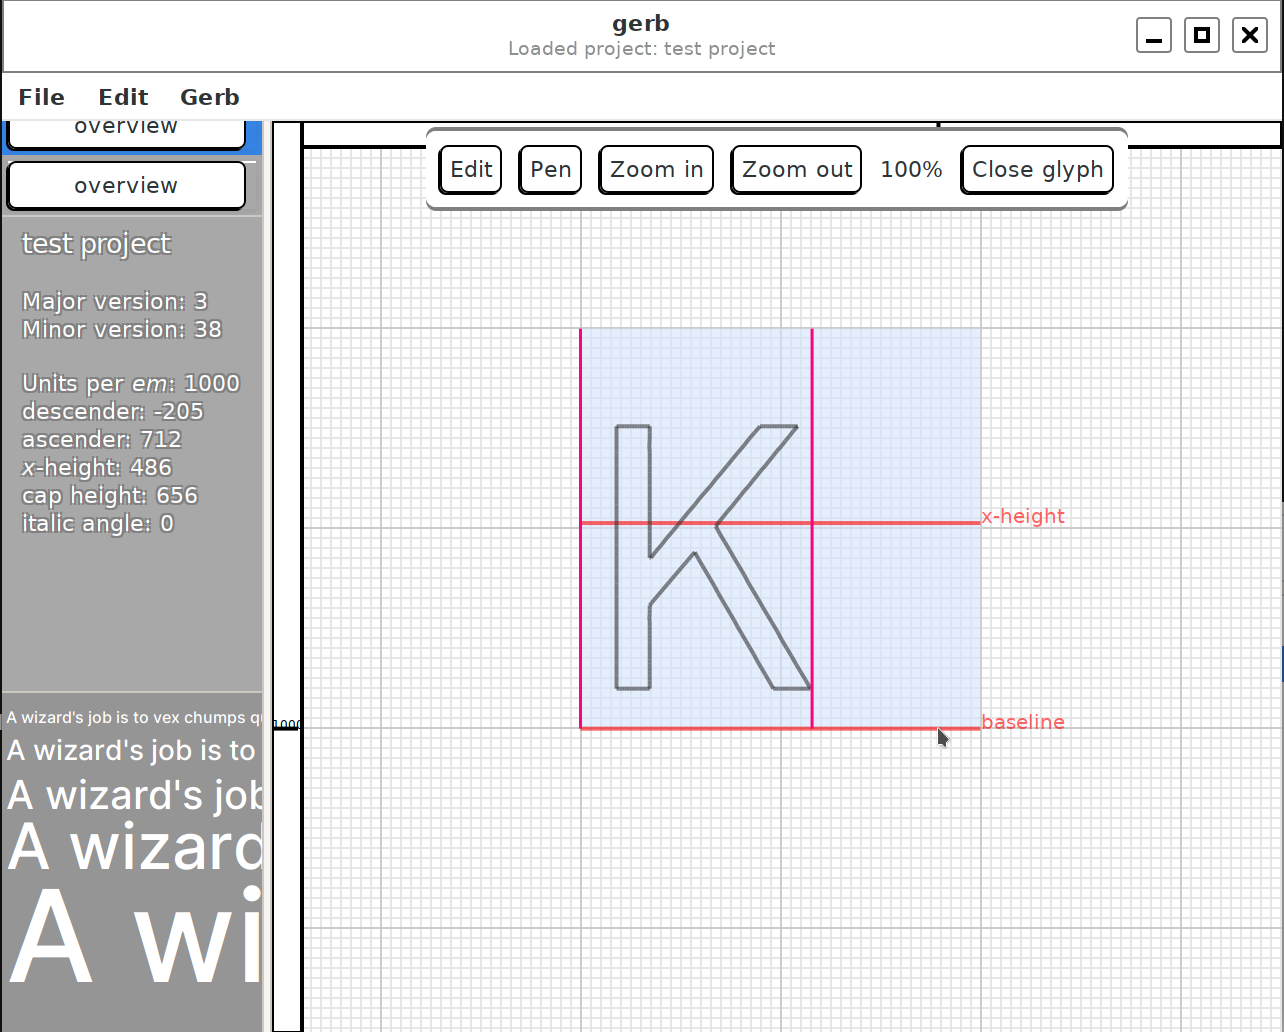
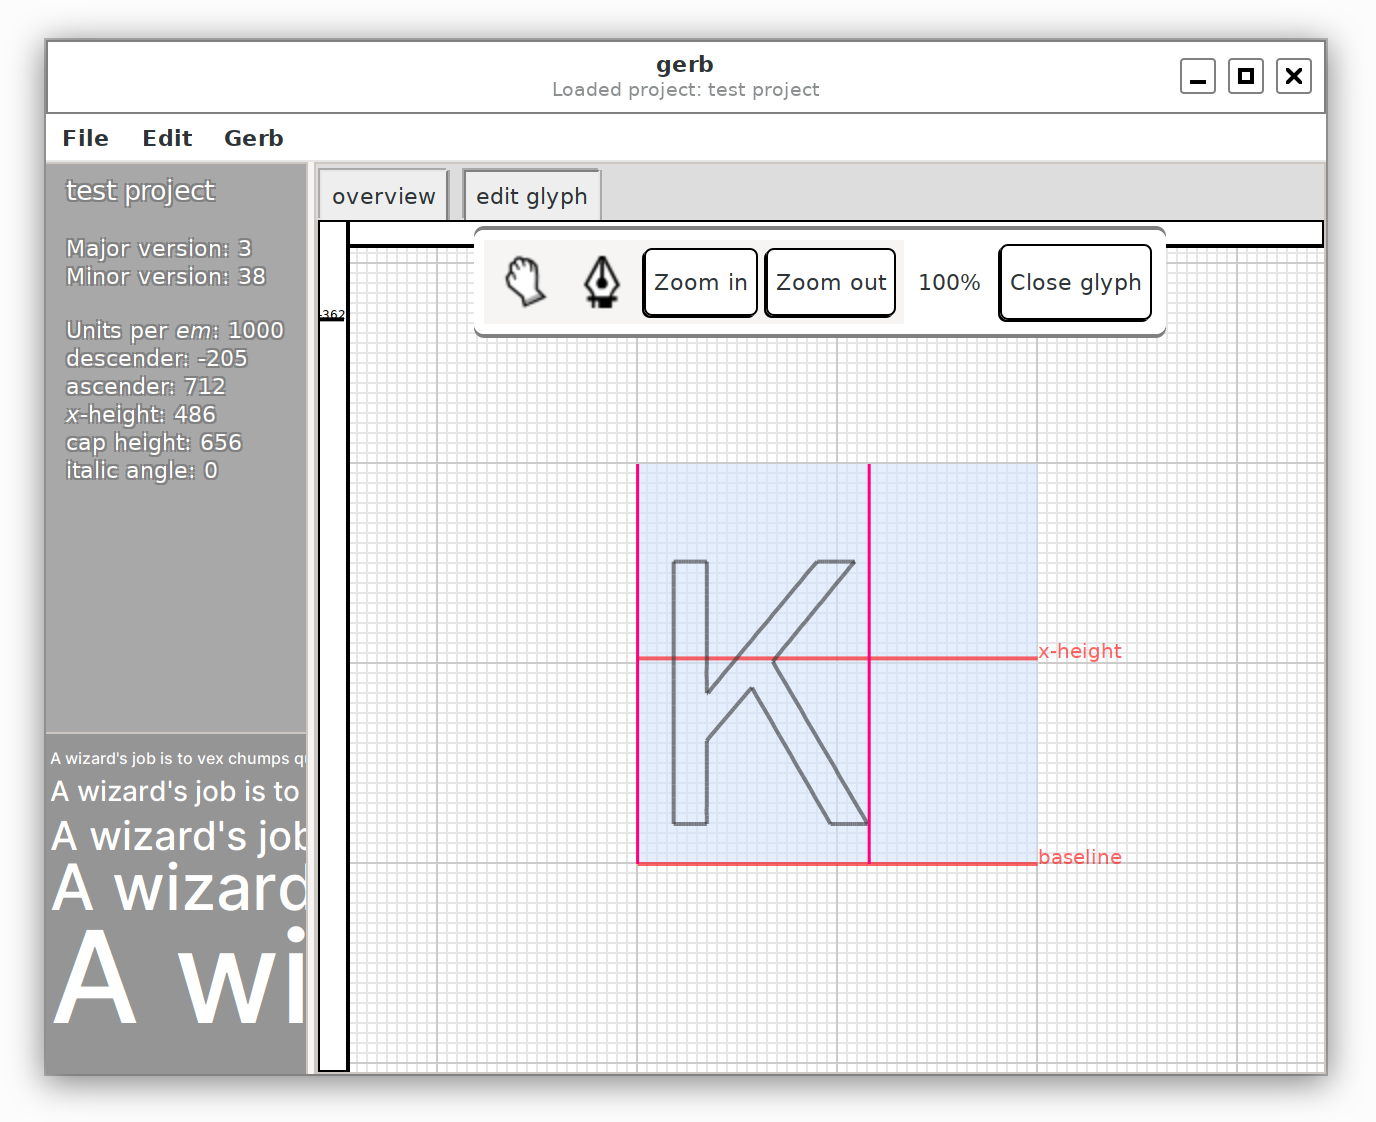
Use gtk::Notebook instead of gtk::Stack

diff --git a/src/custom.css b/src/custom.css
@@ -92,3 +92,24 @@ toolpalette  {
   background: #959595;
   color:black;
 }
+
+tab {
+  border: 1px outset gray;
+  border-bottom: 0px;
+  padding: 5px;
+  min-height: 0;
+  box-shadow: -1px -1px darkgray, 1px 0px darkgray;
+  background-color: #eee;
+}
+
+tab:checked {
+  border: 1px inset gray;
+  border-bottom: 0px;
+}
+
+tabs {
+  padding-left: 0;
+  padding-top: 3px;
+  margin-left: -4px;
+  background-color: #ddd;
+}

diff --git a/src/views/glyph_edit.rs b/src/views/glyph_edit.rs
@@ -69,14 +69,18 @@ impl ObjectImpl for GlyphEditArea {
         drawing_area.set_events(
             gtk::gdk::EventMask::BUTTON_PRESS_MASK
                 | gtk::gdk::EventMask::BUTTON_RELEASE_MASK
+                | gtk::gdk::EventMask::BUTTON_MOTION_MASK
+                | gtk::gdk::EventMask::SCROLL_MASK
+                | gtk::gdk::EventMask::SMOOTH_SCROLL_MASK
                 | gtk::gdk::EventMask::POINTER_MOTION_MASK,
         );
         drawing_area.connect_button_press_event(
             clone!(@weak obj => @default-return Inhibit(false), move |_self, event| {
-
                 obj.imp().mouse.set(event.position());
                 obj.imp().button.set(Some(event.button()));
-
+                if event.button() == 3 {
+                    return Inhibit(true);
+                }
                 Inhibit(false)
             }),
         );
@@ -96,7 +100,7 @@ impl ObjectImpl for GlyphEditArea {
         );
         drawing_area.connect_motion_notify_event(
             clone!(@weak obj => @default-return Inhibit(false), move |_self, event| {
-                if let Some(gtk::gdk::BUTTON_SECONDARY) = obj.imp().button.get(){
+                if let Some(gtk::gdk::BUTTON_MIDDLE) = obj.imp().button.get(){
                     let mut camera = obj.imp().camera.get();
                     let mouse = obj.imp().mouse.get();
                     camera.0 += event.position().0 - mouse.0;
@@ -142,16 +146,16 @@ impl ObjectImpl for GlyphEditArea {
             for &(color, step) in &[(0.9, 5.0), (0.8, 100.0)] {
                 cr.set_source_rgb(color, color, color);
                 let mut y = (camera.1 % step).floor() + 0.5;
-                while y < height {
+                while y < (height/zoom_factor) {
                     cr.move_to(0., y);
-                    cr.line_to(width, y);
+                    cr.line_to(width/zoom_factor, y);
                     y += step;
                 }
                 cr.stroke().unwrap();
                 let mut x = (camera.0 % step).floor() + 0.5;
-                while x < width {
+                while x < (width/zoom_factor) {
                     cr.move_to(x, 0.);
-                    cr.line_to(x, height);
+                    cr.line_to(x, height/zoom_factor);
                     x += step;
                 }
                 cr.stroke().unwrap();
@@ -293,9 +297,9 @@ impl ObjectImpl for GlyphEditArea {
         zoom_in_button.connect_clicked(clone!(@weak obj => move |_| {
             let imp = obj.imp();
             let zoom_factor = imp.zoom.get() + 0.25;
-            if zoom_factor < 4.25 {
+            if zoom_factor < 7.25 {
                 imp.zoom.set(zoom_factor);
-                imp.zoom_percent_label.get().unwrap().set_text(&format!("{}%", zoom_factor * 100.));
+                imp.zoom_percent_label.get().unwrap().set_text(&format!("{:.0}%", zoom_factor * 100.));
                 imp.overlay.get().unwrap().queue_draw();
             }
         }));
@@ -304,14 +308,60 @@ impl ObjectImpl for GlyphEditArea {
         zoom_out_button.connect_clicked(clone!(@weak obj => move |_| {
             let imp = obj.imp();
             let zoom_factor = imp.zoom.get() - 0.25;
-            if zoom_factor > 0. {
+            if zoom_factor > 0.05 {
                 imp.zoom.set(zoom_factor);
-                imp.zoom_percent_label.get().unwrap().set_text(&format!("{}%", zoom_factor * 100.));
+                imp.zoom_percent_label.get().unwrap().set_text(&format!("{:.0}%", zoom_factor * 100.));
                 imp.overlay.get().unwrap().queue_draw();
             }
         }));
+
+        drawing_area.connect_scroll_event(clone!(@weak obj => @default-return Inhibit(false), move |_drar, event| {
+            match event.direction() {
+                gtk::gdk::ScrollDirection::Up | gtk::gdk::ScrollDirection::Down | gtk::gdk::ScrollDirection::Smooth => {
+                    /* zoom */
+                    let (_, dy) = event.delta();
+                    let imp = obj.imp();
+                    let mut camera =imp.camera.get();
+                    let mouse = imp.mouse.get();
+                    camera.0 += event.position().0 - mouse.0;
+                    camera.1 += event.position().1 - mouse.1;
+                    imp.mouse.set(event.position());
+                    imp.camera.set(camera);
+                    let zoom_factor = imp.zoom.get() - 0.25* dy;
+                    if zoom_factor > 0.05 && zoom_factor < 7.25 {
+                        imp.zoom.set(zoom_factor);
+                        imp.zoom_percent_label.get().unwrap().set_text(&format!("{:.0}%", zoom_factor * 100.));
+                        imp.overlay.get().unwrap().queue_draw();
+                    }
+                        _drar.queue_draw();
+                },
+                _ => {
+                    /* ignore */
+                }
+            }
+            Inhibit(false)
+        }));
+
         let zoom_percent_label = gtk::Label::new(Some("100%"));
         zoom_percent_label.set_visible(true);
+        zoom_percent_label.set_selectable(true);
+        zoom_percent_label.set_events(gtk::gdk::EventMask::BUTTON_PRESS_MASK);
+
+        zoom_percent_label.connect_button_press_event(
+            clone!(@weak obj => @default-return Inhibit(false), move |_self, event| {
+                if event.button() == gtk::gdk::BUTTON_PRIMARY &&
+                 event.event_type() == gtk::gdk::EventType::DoubleButtonPress {
+                    let imp = obj.imp();
+                    let zoom_factor = imp.zoom.get();
+                    if (zoom_factor - 1.0).abs() > f64::EPSILON {
+                        imp.zoom.set(1.0);
+                        imp.zoom_percent_label.get().unwrap().set_text("100%");
+                        imp.overlay.get().unwrap().queue_draw();
+                    }
+                }
+                Inhibit(false)
+            }),
+        );
         toolbar.add(&edit_button);
         toolbar.set_item_homogeneous(&edit_button, false);
         toolbar.add(&pen_button);

diff --git a/src/window.rs b/src/window.rs
@@ -19,8 +19,8 @@
  * along with gerb. If not, see <http://www.gnu.org/licenses/>.
  */
 
-mod breadcrumbs;
-use breadcrumbs::*;
+mod tabinfo;
+use tabinfo::*;
 
 use glib::clone;
 use gtk::cairo::{Context, FontSlant, FontWeight};
@@ -44,7 +44,11 @@ struct WindowSidebar {
 
 impl WindowSidebar {
     #[inline(always)]
-    fn new(main: gtk::Paned, stack: &gtk::Stack, obj: &<Window as ObjectSubclass>::Type) -> Self {
+    fn new(
+        main: gtk::Paned,
+        notebook: &gtk::Notebook,
+        obj: &<Window as ObjectSubclass>::Type,
+    ) -> Self {
         let ret = Self {
             main,
             project_info_sidebar: gtk::Paned::builder()
@@ -119,8 +123,8 @@ impl WindowSidebar {
         sidebar.pack2(&ret.minimap, true, false);
         sidebar.style_context().add_class("sidebar");
 
-        let breadcrumbs = Breadcrumbs::new(stack);
-        ret.project_info_sidebar.pack1(&breadcrumbs, true, true);
+        let tabinfo = TabInfo::new(notebook);
+        ret.project_info_sidebar.pack1(&tabinfo, true, true);
         ret.project_info_sidebar
             .pack2(&ret.project_label, true, true);
 
@@ -145,7 +149,7 @@ struct WindowWidgets {
     //tool_palette: gtk::ToolPalette,
     //create_item_group: gtk::ToolItemGroup,
     //project_item_group: gtk::ToolItemGroup,
-    stack: gtk::Stack,
+    notebook: gtk::Notebook,
 }
 
 #[derive(Debug, Default)]
@@ -176,11 +180,15 @@ impl ObjectImpl for Window {
         headerbar.set_title(Some("gerb"));
         headerbar.set_show_close_button(true);
 
-        let stack = gtk::Stack::builder()
+        let notebook = gtk::Notebook::builder()
             .expand(true)
             .visible(true)
             .can_focus(true)
-            .name("main-window-stack")
+            .name("main-window-notebook")
+            .show_tabs(true)
+            .scrollable(true)
+            .enable_popup(true)
+            .show_border(true)
             .build();
         let paned = gtk::Paned::builder()
             .orientation(gtk::Orientation::Horizontal)
@@ -190,7 +198,7 @@ impl ObjectImpl for Window {
             .position(130)
             .name("main-window-paned")
             .build();
-        paned.pack2(&stack, true, false);
+        paned.pack2(&notebook, true, false);
 
         obj.set_child(Some(&paned));
         obj.set_titlebar(Some(&headerbar));
@@ -229,8 +237,8 @@ impl ObjectImpl for Window {
         self.widgets
             .set(WindowWidgets {
                 headerbar,
-                sidebar: WindowSidebar::new(paned, &stack, obj),
-                stack,
+                sidebar: WindowSidebar::new(paned, &notebook, obj),
+                notebook,
                 //tool_palette,
                 //create_item_group,
                 //project_item_group,
@@ -285,10 +293,13 @@ impl Window {
         drop(lck);
         let glyphs_view =
             crate::views::GlyphsOverview::new(self.app.get().unwrap().clone(), mutex.clone());
-        widgets.stack.add(&glyphs_view);
-        widgets.stack.set_visible_child(&glyphs_view);
+        widgets.notebook.add(&glyphs_view);
+        widgets
+            .notebook
+            .set_tab_label_text(&glyphs_view, "overview");
+        //widgets.notebook.set_visible_child(&glyphs_view);
         //widgets.tool_palette.queue_draw();
-        widgets.stack.queue_draw();
+        widgets.notebook.queue_draw();
     }
 
     pub fn edit_glyph(&self, glyph: &crate::glyphs::Glyph) {
@@ -299,9 +310,13 @@ impl Window {
             mutex.clone(),
             glyph.clone(),
         );
-        widgets.stack.add(&edit_view);
-        widgets.stack.set_visible_child(&edit_view);
-        widgets.stack.queue_draw();
+        widgets.notebook.add(&edit_view);
+        widgets
+            .notebook
+            .set_tab_label_text(&edit_view, "edit glyph");
+        widgets.notebook.next_page();
+        //widgets.notebook.set_visible_child(&edit_view);
+        widgets.notebook.queue_draw();
         edit_view.queue_draw();
         let close_button = gtk::ToolButton::new(gtk::ToolButton::NONE, Some("Close glyph"));
         close_button.set_visible(true);
@@ -311,8 +326,8 @@ impl Window {
         let obj = self.super_.get().unwrap().clone();
         close_button.connect_clicked(clone!(@strong obj, @strong toolbar => move |_self| {
             let widgets = obj.imp().widgets.get().unwrap();
-            widgets.stack.remove(&edit_view);
-            widgets.stack.queue_draw();
+            widgets.notebook.remove(&edit_view);
+            widgets.notebook.queue_draw();
             toolbar.remove(_self);
         }));
         /*
@@ -320,8 +335,8 @@ impl Window {
         let obj = self.super_.get().unwrap().clone();
         close_button.connect_clicked(clone!(@strong obj => move |_self| {
             let widgets = obj.imp().widgets.get().unwrap();
-            widgets.stack.remove(&edit_view);
-            widgets.stack.queue_draw();
+            widgets.notebook.remove(&edit_view);
+            widgets.notebook.queue_draw();
             widgets.project_item_group.remove(_self);
         }));
         widgets.tool_palette.queue_draw();
@@ -347,7 +362,7 @@ impl Window {
         }
         widgets.tool_palette.queue_draw();
         */
-        widgets.stack.queue_draw();
+        widgets.notebook.queue_draw();
         let mutex = self.project.get().unwrap();
         let mut lck = mutex.lock().unwrap();
         *lck = None;

diff --git a/src/window/tabinfo.rs b/src/window/tabinfo.rs
@@ -26,23 +26,23 @@ use gtk::subclass::prelude::*;
 use once_cell::unsync::OnceCell;
 
 #[derive(Debug)]
-struct BreadcrumbWidgets {
+struct TabInfoWidgets {
     flow_box: gtk::FlowBox,
 }
 
 #[derive(Debug, Default)]
-pub struct BreadcrumbsInner {
-    widgets: OnceCell<BreadcrumbWidgets>,
+pub struct TabInfoInner {
+    widgets: OnceCell<TabInfoWidgets>,
 }
 
 #[glib::object_subclass]
-impl ObjectSubclass for BreadcrumbsInner {
-    const NAME: &'static str = "BreadcrumbsInner";
-    type Type = Breadcrumbs;
+impl ObjectSubclass for TabInfoInner {
+    const NAME: &'static str = "TabInfoInner";
+    type Type = TabInfo;
     type ParentType = gtk::Box;
 }
 
-impl ObjectImpl for BreadcrumbsInner {
+impl ObjectImpl for TabInfoInner {
     fn constructed(&self, obj: &Self::Type) {
         self.parent_constructed(obj);
 
@@ -59,37 +59,28 @@ impl ObjectImpl for BreadcrumbsInner {
         obj.set_visible(true);
         obj.set_expand(true);
         self.widgets
-            .set(BreadcrumbWidgets { flow_box })
-            .expect("Failed to initialize BreadcrumbsInner state");
+            .set(TabInfoWidgets { flow_box })
+            .expect("Failed to initialize TabInfoInner state");
     }
 }
 
-impl BreadcrumbsInner {}
+impl TabInfoInner {}
 
-impl WidgetImpl for BreadcrumbsInner {}
-impl ContainerImpl for BreadcrumbsInner {}
-impl BoxImpl for BreadcrumbsInner {}
+impl WidgetImpl for TabInfoInner {}
+impl ContainerImpl for TabInfoInner {}
+impl BoxImpl for TabInfoInner {}
 
 glib::wrapper! {
-    pub struct Breadcrumbs(ObjectSubclass<BreadcrumbsInner>)
+    pub struct TabInfo(ObjectSubclass<TabInfoInner>)
         @extends gtk::Widget, gtk::Container, gtk::Box;
 }
 
-impl Breadcrumbs {
-    pub fn new(stack: &gtk::Stack) -> Self {
-        let ret: Self = glib::Object::new(&[]).expect("Failed to create Breadcrumbs");
-        stack.connect_add(clone!(@strong ret => move |_self_, new_widget| {
-            println!("added {:?}", new_widget);
-            let widg = gtk::Button::builder()
-                .label("overview")
-                .expand(true)
-                .visible(true)
-                .build();
-            ret.imp().widgets.get().unwrap().flow_box.add(&widg);
-
-        }));
-        stack.connect_remove(clone!(@strong ret => move |_self_, removed_widget| {
-            println!("removed {:?}", removed_widget);
+impl TabInfo {
+    pub fn new(notebook: &gtk::Notebook) -> Self {
+        let ret: Self = glib::Object::new(&[]).expect("Failed to create TabInfo");
+        notebook.connect_switch_page(clone!(@strong ret => move |_self_, _page_widget, _page| {
+            //println!("switched {:?} {}", page_widget, page);
+            //ret.imp().widgets.get().unwrap().flow_box.add(&widg);
 
         }));
         /*ret.imp()
